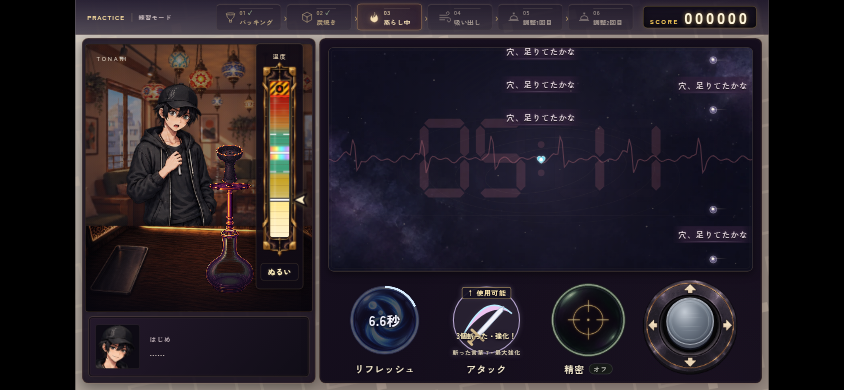
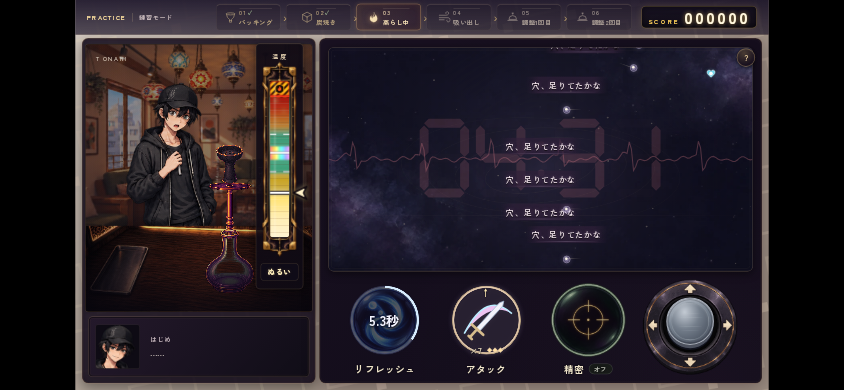
feat(steam): use sparse combo UI and asymmetric tiered arc effects

diff --git a/remake/js/craft/steam.js b/remake/js/craft/steam.js
@@ -44,7 +44,7 @@ export async function runSteamDodge(cs) {
   const tutorial = cs.mode === "tutorial";
   const seconds = steamSecondsOf(cs), min = seconds / 60;
   const rainy = craftConditions(cs).rainy;
-  const panel = stepPanel("steam", "蒸らし", "", { brief: "" });
+  const panel = stepPanel("steam", "蒸らし", "アタックはZ／ボタン。方向入力なしは前方、方向キー／スティックで向きを変える。言葉を3個・6個斬ると、段階灯と刃が水色→紫→金に変わり、範囲が広がって再使用も早くなる。小さな物体弾も斬れる。強化は空振り・被弾・リフレッシュで減らず、次の蒸らしで戻る。", { brief: "" });
   const W = 784, H = 414;
   const box = el("div.dodge", { style: { width: `${W}px`, height: `${H}px` }, dataset: { test: "dodge", mental: "steady", refreshRadius: String(effect.radius) } });
   const heart = el("div.dodge-heart", { role: "img", "aria-label": "心。中央の白丸が当たり判定", style: { transform: `translate(${W / 2 - 14}px, ${H / 2 - 14}px)` } }, [el("span", { html: HEART_ART }), el("i.dodge-core")]);
@@ -57,8 +57,9 @@ export async function runSteamDodge(cs) {
   refreshBtn.append(el("span.refresh-emblem", { "aria-hidden": "true" }, [controlArt("steam_refresh_simple.png"), el("i.recharge-ring"), refreshCharge]),
     el("span.refresh-copy", { text: "リフレッシュ" }));
   const slashCharge = el("span.action-recharge");
-  const slashState = el("span.slash-state", { text: "準備中" });
-  const slashGrowth = el("span.slash-growth");
+  const slashState = el("span.slash-state", { text: "↑" });
+  const slashCount = el("span.slash-count", { text: "×0" });
+  const slashGrowth = el("span.slash-growth", [slashCount, el("span.slash-level", [el("i"), el("i"), el("i")])]);
   const slashFeedback = el("span.slash-feedback", { role: "status", "aria-live": "polite", "aria-atomic": "true", dataset: { test: "slash-feedback" } });
   const slashBtn = el("button.btn.dodge-action.dodge-slash", { disabled: true, "aria-keyshortcuts": "Z", title: "方向キー＋Zで上下左右へアタック。方向入力なしは前方", dataset: { test: "dodge-slash", uses: "0" } }, [
     el("span.refresh-emblem", { "aria-hidden": "true" }, [el("span", { html: SLASH_ART }), el("i.recharge-ring"), slashCharge, slashState, slashGrowth]),
@@ -176,8 +177,9 @@ export async function runSteamDodge(cs) {
     slashBtn.dataset.recharge = String(profile.recharge);
     slashBtn.dataset.tier = String(profile.tier);
     slashBtn.dataset.aim = aim;
-    slashState.textContent = !running ? (slashesUsed ? "終了" : "準備中") : remaining > 0 ? "リチャージ" : `${facing} 使用可能`;
-    slashGrowth.textContent = profile.next === null ? `斬った言葉 ${wordsCut}・最大強化` : `斬った言葉 ${wordsCut}・あと${profile.next - wordsCut}で強化`;
+    slashState.textContent = facing;
+    slashCount.textContent = `×${wordsCut}`;
+    slashCharge.textContent = running && remaining > 0 ? (Math.ceil(remaining * 10) / 10).toFixed(1) : "";
   };
   const refresh = () => {
     if (!running || refreshes === 0) return;
@@ -210,7 +212,7 @@ export async function runSteamDodge(cs) {
     slashFeedback.dataset.hit = String(cleared.length > 0);
     slashFeedback.textContent = cleared.length ? `${cleared.length}個斬った${after.tier > before.tier ? "・強化！" : ""}` : "空振り";
     world.dissolve(time, cleared);
-    const fx = buildSlashFx(hx, hy, angle, before.reach, cleared.length > 0);
+    const fx = buildSlashFx(hx, hy, angle, before.reach, cleared.length > 0, after.tier);
     box.append(fx); transients.push({ node: fx, until: time + .32 });
     for (const b of cleared) {
       const spark = el("i.dodge-slash-impact", { "aria-hidden": "true", style: { left: `${clamp(b.x + b.w / 2, 0, W)}px`, top: `${clamp(b.y + b.h / 2, 0, H)}px` } });

diff --git a/remake/css/steam.css b/remake/css/steam.css
@@ -121,13 +121,23 @@
 .dodge-slash-fx[data-hit="false"] svg { opacity: .5; }
 .slash-control { position: relative; width: 176px; height: 180px; flex: none; }
 .slash-state, .slash-growth { position: absolute; left: 50%; transform: translateX(-50%); white-space: nowrap; font-family: var(--font); font-weight: 700; line-height: 1.4; }
-.slash-state { top: 15px; padding: 1px 8px; border: 1px solid #adcfe366; border-radius: 4px; background: #161222ed; color: #d7f6ff; font-size: 13px; }
-.slash-growth { bottom: 9px; color: #e1d4ba; font-size: 11px; }
-.dodge-slash[data-cooling="true"] .slash-state { color: #c4bdd2; border-color: #9283ad55; }
+.slash-state { top: 11px; color: #d7f6ff; font-size: 18px; }
+.slash-growth { bottom: 9px; display: flex; align-items: center; gap: 9px; color: #e1d4ba; font-size: 16px; font-variant-numeric: tabular-nums; }
+.slash-level { display: flex; gap: 3px; }
+.slash-level i { width: 7px; height: 7px; background: #343045; transform: rotate(45deg); border: 1px solid #9386a166; }
+.slash-level i:first-child { background: #b8e9ff; }
+.dodge-slash[data-tier="1"] .slash-level i:nth-child(-n+2) { background: #d5abff; }
+.dodge-slash[data-tier="2"] .slash-level i { background: #ffe0a3; }
+.dodge-slash[data-cooling="true"] .slash-state { color: #9386a1; }
 .dodge-slash[data-tier="1"] .refresh-emblem { color: #d8d7ff; }
-.dodge-slash[data-tier="2"] .slash-state { border-color: #e4c379aa; color: #ffe9b3; }
-.slash-feedback { position: absolute; left: 0; right: 0; top: 98px; text-align: center; pointer-events: none; font-size: 13px; line-height: 1.3; font-weight: 700; color: #c5bdcf; text-shadow: 0 1px 3px #080512, 0 0 6px #080512; }
-.slash-feedback[data-hit="true"] { color: #fff0bf; }
+.dodge-slash[data-tier="2"] .slash-state { color: #ffe9b3; }
+.dodge-slash:enabled .recharge-ring { display: block; opacity: .65; }
+.dodge-slash[data-tier="1"] .recharge-ring { background: conic-gradient(#d5abff calc(var(--recharge) * 1turn), #77728a44 0); }
+.dodge-slash[data-tier="2"] .recharge-ring { background: conic-gradient(#ffe0a3 calc(var(--recharge) * 1turn), #77728a44 0); }
+/* 結果の文章は読み上げ専用。画面は刃・火花・数字・段階灯で伝える。 */
+.slash-feedback { position: absolute; width: 1px; height: 1px; overflow: hidden; clip-path: inset(50%); white-space: nowrap; }
+.dodge-slash-fx[data-tier="1"] { filter: drop-shadow(0 0 6px #d5abff); }
+.dodge-slash-fx[data-tier="2"] { filter: drop-shadow(0 0 7px #ffd58a); }
 .dodge-slash.striking .refresh-emblem > span:first-child { animation: slash-press .2s ease-out; }
 .dodge-slash-impact { position: absolute; width: 26px; height: 26px; transform: translate(-50%, -50%); z-index: 4; pointer-events: none; background: #fff0b9; clip-path: polygon(48% 0, 56% 38%, 100% 46%, 63% 55%, 53% 100%, 43% 64%, 0 54%, 36% 43%); animation: slash-impact .32s ease-out forwards; }
 @keyframes slash-press { 50% { transform: scale(.93); } }
@@ -150,7 +160,7 @@
 .dr-ray { width: 32px; height: 1px; background: linear-gradient(90deg, transparent, #fff3d7, transparent); }
 @media (prefers-reduced-motion: reduce) {
   .dodge-slash.striking .refresh-emblem > span:first-child, .dodge-slash-impact { animation: none; }
-  .dodge-slash-fx { animation: none; opacity: .8; filter: none; }
+  .dodge-slash-fx, .dodge-slash-fx[data-tier] { animation: none; opacity: .8; filter: none; }
   .dodge-refresh:enabled .refresh-emblem::after { animation: none; }
   .dodge-mist, .bench-worker[data-waiting="true"] .worker-actor { animation: none; }
   .dodge-mist { opacity: .12; }

diff --git a/remake/js/craft/steam-slash.js b/remake/js/craft/steam-slash.js
@@ -53,13 +53,15 @@ export function slashTouchesBullet(b, hx, hy, angle, reach = SLASH_REACH) {
   return false;
 }
 
-export const SLASH_ART = '<svg viewBox="0 0 152 152" aria-hidden="true"><circle cx="76" cy="76" r="61" fill="#201927" fill-opacity=".5" stroke="#b6a5cf" stroke-width="2"/><path d="M35 101Q76 20 123 64Q83 39 35 101Z" fill="#edc3f1"/><path d="M35 101Q76 20 123 64" fill="none" stroke="#b9edff" stroke-width="3"/><path d="m56 102 44-48 8-3-2 9-44 48Z" fill="#f2f2fa" stroke="#a2b9d0" stroke-width="1.5"/><path d="m49 94 21 19m-14-7-10 11m-3-2 6 6" fill="none" stroke="#d6bc8c" stroke-width="5" stroke-linecap="round"/></svg>';
+export const SLASH_ART = '<svg viewBox="0 0 152 152" aria-hidden="true"><circle cx="76" cy="76" r="61" fill="#201927" fill-opacity=".5" stroke="#b6a5cf" stroke-width="2"/><path d="M35 101Q76 20 123 64Q83 39 35 101Z" fill="#edc3f1"/><path d="M35 101Q76 20 123 64" fill="none" stroke="#b9edff" stroke-width="3"/><g transform="translate(0 -10)"><path d="m56 102 44-48 8-3-2 9-44 48Z" fill="#f2f2fa" stroke="#a2b9d0" stroke-width="1.5"/><path d="m49 94 21 19m-14-7-10 11m-3-2 6 6" fill="none" stroke="#d6bc8c" stroke-width="5" stroke-linecap="round"/></g></svg>';
 let fxId = 0;
-export function buildSlashFx(x, y, angle, reach = SLASH_REACH, hit = false) {
+export function buildSlashFx(x, y, angle, reach = SLASH_REACH, hit = false, tier = 0) {
   const r = reach;
   const id = `steam-slash-${++fxId}`;
-  return el("div.dodge-slash-fx", { "aria-hidden": "true", dataset: { test: "dodge-slash-fx", hit: String(hit) },
+  const ink = ["#b8e9ff", "#d5abff", "#ffe0a3"][tier];
+  const flecks = tier > 0 ? `<path d="M26 -43L38 -51L33 -39ZM69 38L77 30L72 45Z" fill="${ink}"/>` : "";
+  return el("div.dodge-slash-fx", { "aria-hidden": "true", dataset: { test: "dodge-slash-fx", hit: String(hit), tier: String(tier) },
     style: { left: `${x}px`, top: `${y}px`, "--angle": `${angle}rad`, width: `${r * 2}px`, height: `${r * 2}px` },
-    // 同心円状の扇をやめ、先端が細くなる一筆の刃と短い軌跡にする。
-    html: `<svg viewBox="-100 -100 200 200"><defs><linearGradient id="${id}" x1="0" y1="0" x2="1" y2="1"><stop stop-color="#b8c7ff" stop-opacity=".15"/><stop offset=".55" stop-color="#eaffff"/><stop offset="1" stop-color="#fff0c3"/></linearGradient></defs><path d="M26 -48L36 -55L94 25L68 12Z" fill="url(#${id})"/><path d="M36 -55L94 25" fill="none" stroke="#fff" stroke-width="2.5"/><path d="M12 -28L72 20L43 5Z" fill="#c4efff" fill-opacity=".4"/></svg>` });
+    // 弧は残す。半円状の一筆を厚い根元から細い先端へ流し、左右対称の扇を避ける。
+    html: `<svg viewBox="-100 -100 200 200"><defs><linearGradient id="${id}" x1="0" y1="0" x2="1" y2="1"><stop stop-color="${ink}" stop-opacity=".15"/><stop offset=".55" stop-color="#f4ffff"/><stop offset="1" stop-color="${ink}"/></linearGradient></defs><path d="M32 -26C48 -60 87 -55 97 -12C102 21 86 45 64 53C74 30 77 6 67 -12C60 -24 47 -31 32 -26Z" fill="url(#${id})"/><path d="M32 -26C48 -60 87 -55 97 -12C102 21 86 45 64 53" fill="none" stroke="#fff" stroke-width="${tier === 2 ? 3 : 2}"/><path d="M22 -12L49 -31L43 -16Z" fill="${ink}" fill-opacity=".4"/>${flecks}</svg>` });
 }

diff --git a/docs/steam_attack.md b/docs/steam_attack.md
@@ -23,6 +23,8 @@ https://github.com/haseatsu114514-dot/shisha-game/issues/356#issuecomment-611428
 
 ## 表示と検証
 
-命中は「N個斬った」、段階到達時は「強化！」、命中しない場合は「空振り」。使用可能時は方向矢印、待ち時間は0.1秒単位の切り上げと進捗リングを表示。長い状態説明は操作ボタンの読み上げラベルに含め、操作結果だけをlive regionで通知する。
+画面は矢印、待ち時間の数字と進捗リング、「×N」の言葉カウント、3段階の灯だけに絞る。説明文は「?」ヘルプと読み上げ側へ置く。ボタンの剣は中央に合わせ、斬撃は半円状の弧を残した太い根元／細い先端の非対称な刃にする。刃と段階灯は水色→紫→金へ変化。小さな物体弾も既存の実矩形判定で斬れるが、言葉の強化数には加算しない。
+
+命中は火花と輝く刃、空振りは淡い刃で区別する。「N個斬った」「強化！」「空振り」の文章は画面に重ねず、操作結果だけをlive regionで読み上げる。
 
 検証は `node remake/test/steam_attack_growth.mjs`（承認値・可変射程・実弾での成長とリセット）、既存 `steam_slash.mjs`（四方向・PC／二本指・リチャージ）、`steam_refresh.mjs`、`steam_forecast.mjs`、`steam_heart.mjs`、`browser/save_load.mjs`。ブラウザテストでは `NODE_PATH=remake/test/browser/node_modules` と環境に応じた `CHROME_EXECUTABLE_PATH` を設定する。実施結果・未確認事項と画像はPRに記録し、全項目の成功をこの文書だけで宣言しない。

diff --git a/remake/README.md b/remake/README.md
@@ -24,7 +24,7 @@
 - 下段はリフレッシュ／アタック／精密／スティック。間隔12px、銀色ノブの上面は10px上へ。
 - アタックはZまたはボタン。方向キーとの同時押しで上下左右へ、入力なしは上側の前方。スマホはスティック方向に撃てる。
 - アタックは初期80px・80度／1.8秒。同じ蒸らし中に言葉を3個斬ると90px／1.5秒、6個で100px／1.2秒に強化。空振り・被弾・リフレッシュで強化は減らず、次の蒸らしでリセットする。初回練習を含め開始時から使用可能。リフレッシュ（Space／X／ボタン）は独立した8秒リチャージ。[承認済み仕様と検証](../docs/steam_attack.md)。
-- アタックの向き・使用可能／リチャージ・斬った言葉と次の強化までの数、命中／空振りを操作欄で表示。刃の軌跡と命中した弾の火花を短く描画し、動きを減らす設定ではアニメーションを省く。
+- アタックの向き・残り秒・「×N」・3段階の灯を操作欄で表示。左右非対称な弧の刃が水色→紫→金へ変わり、命中は火花、空振りは淡い刃で示す。条件の説明はヘルプと読み上げ側へ置き、動きを減らす設定ではアニメーションを省く。
 - 検証は `steam_slash.mjs`（四方向・実弾消去・PC／スマホ同時操作・白丸・ノブ）、`steam_refresh.mjs`（実時間でのリチャージ・成長効果）、`steam_forecast.mjs`（配置・精密・温度計）。
 
 2026-10-07のプレイ感調整:
